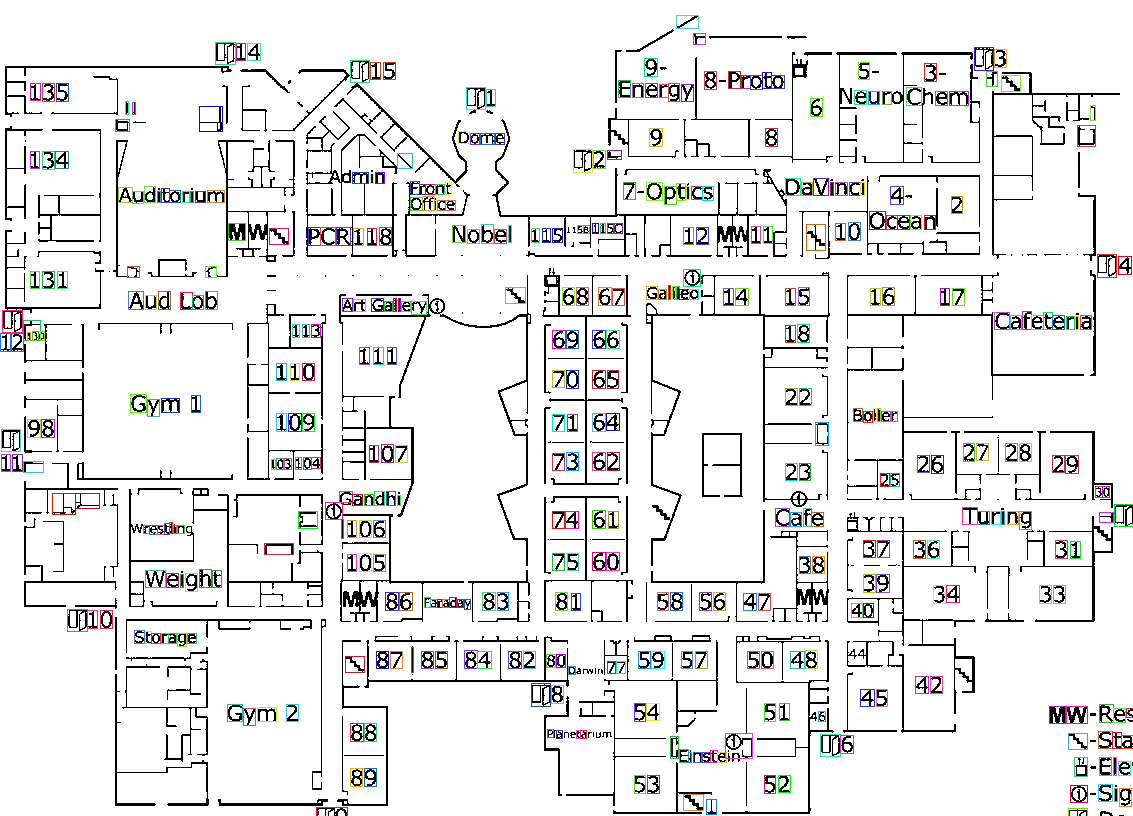
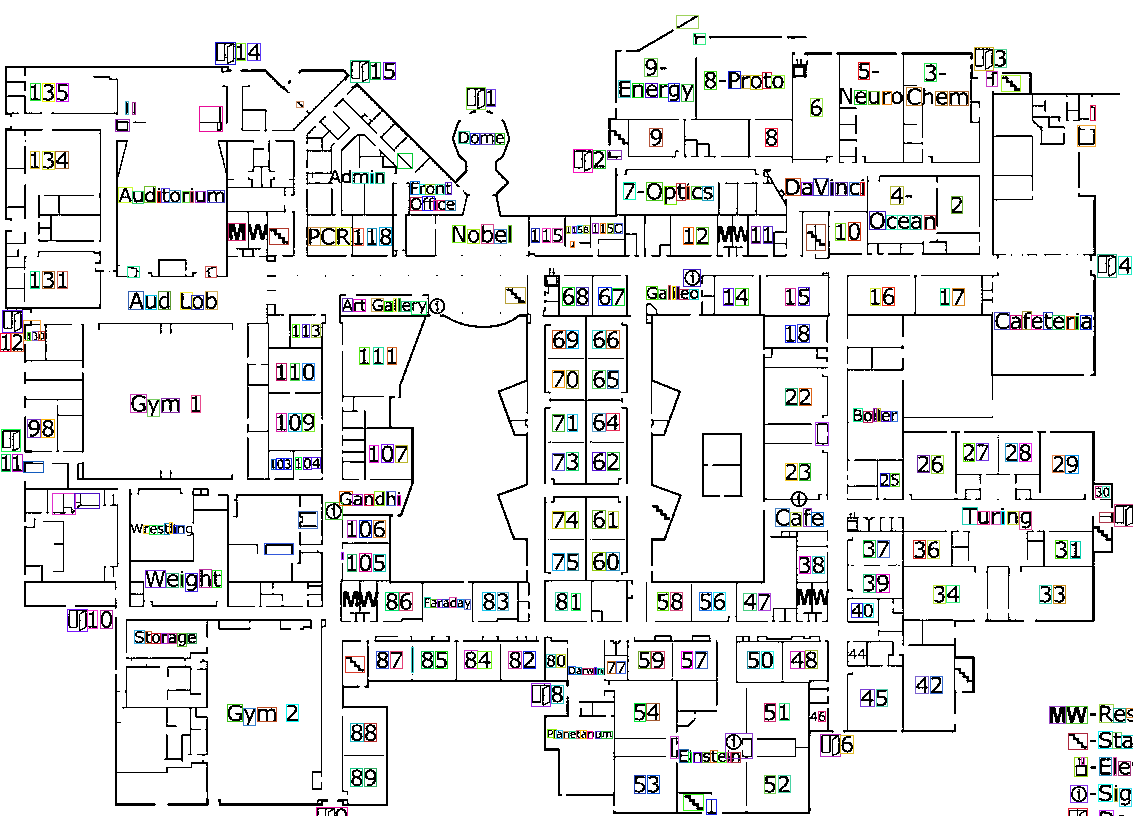
Update box recognition

diff --git a/recognize_characters.py b/recognize_characters.py
@@ -19,7 +19,7 @@ DIST_BETWEEN_LETTERS = 15
 Y_THRESHOLD = 4
 
 USING_TESSERACT = False
-SHOW_IMAGES = False
+SHOW_IMAGES = True
 
 sys.setrecursionlimit(10000) # We don't talk about this line
 
@@ -118,7 +118,7 @@ def draw_boxes(pixels):
 
             loaded_pixels.update(found)
 
-            if 10 < len(found) and len(found) < 500 and x_len < 30 and y_len > 5 and y_len < 30: # Is appropriate size for character
+            if 5 < len(found) and len(found) < 500 and x_len < 30 and y_len > 3 and y_len < 30: # Is appropriate size for character
                 # print(f"Drawing box, {x_len} by {y_len} ==> {len(found)}")
                 min_x -= 1
                 max_x += 1
@@ -132,6 +132,8 @@ def draw_boxes(pixels):
                 draw_line(pixels, min_x, max_x, max_y, max_y, rgb)
                 draw_line(pixels, min_x, min_x, min_y, max_y, rgb)
             else:
+                # if len(found) != 0:
+                #     print(len(found), x_len, y_len)
                 walls.update(found)
 
     return sorted(list(boxes), key = lambda b: (b[0], b[3])), list(walls)
@@ -272,9 +274,14 @@ def process_image(boxes):
         if confidence >= CONFIDENCE_LEVEL:
             print("Full name:", full_word)
 
-        if confidence < CONFIDENCE_LEVEL: # Go individually
-
-            label = "".join([pred[0] if (pred := predict_char(b))[1] >= CONFIDENCE_LEVEL else "." for b in detected_name])
+            for word in full_word.split(" "):
+                if word == "":
+                    continue
+                if not d.check(word):
+                    suggestions = [i for i in d.suggest(word) if len(i) == len(word)]
+                    print("Suggestions:", suggestions)
+        else: # Go individually
+            label = "".join([pred[0] if (pred := predict_char(b))[1] >= CONFIDENCE_LEVEL else "*" for b in detected_name])
 
             # Change lowercase L's to 1's in room names
             change = True
@@ -291,24 +298,16 @@ def process_image(boxes):
 
             # Change 0's to O's in room names
 
-            if all(i == "0" or i.isalpha() for i in label) and len(label) > 1:
+            if all(i == "0" or i.isalpha() or i == "*" for i in label) and len(label) > 1:
                 label = "".join([i if i != "0" else "o" for i in label])
 
             label = label.capitalize() 
-            if any(i != "." for i in label):   
+            if any(i != "*" for i in label):   
                 print("Each character:", label)
-        else:
-            for word in full_word.split(" "):
-                if word == "":
-                    continue
-
-                if not d.check(word):
-                    suggestions = [i for i in d.suggest(word) if len(i) == len(word)]
-                    print("Suggestions:", suggestions)
         
         if SHOW_IMAGES:
             if confidence < CONFIDENCE_LEVEL:
-                if all(i == "." for i in label):
+                if all(i == "*" for i in label):
                     continue
                 text = f"Each: {label}"
             else:
@@ -346,18 +345,18 @@ boxes_image = image.copy()
 boxes_pixels = boxes_image.load()
 boxes, walls = draw_boxes(boxes_pixels) 
 with open("list_of_points.txt", "w") as f:
-    f.write("[" + ", ".join([f'[{i[0]}, {i[1]}, 0]' for i in walls]) + "]")
+    for i in walls:
+        f.write(f"{i[0]} {i[1]} 0\n")
 
-# image.save(IMAGE_SAVE_PATH + "custom_boxes.png")
+boxes_image.save(IMAGE_SAVE_PATH + "custom_boxes.png")
 
 print("Processing image...")
 process_image(boxes)    
 
-print("Saving updated boxes...")
-with open('boxes.pickle', 'wb') as handle:
-    pickle.dump(box_stats, handle, protocol=pickle.HIGHEST_PROTOCOL)
-
-# A very long to-do list :(
+if USING_TESSERACT:
+    print("Saving updated boxes...")
+    with open('boxes.pickle', 'wb') as handle:
+        pickle.dump(box_stats, handle, protocol=pickle.HIGHEST_PROTOCOL)
 
 """
 Maybe ask user to take another picture of key and then
